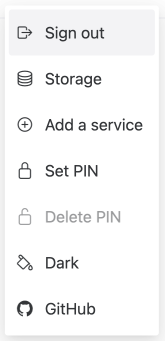
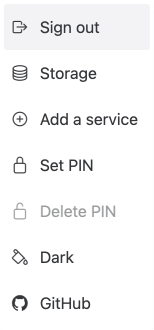
Implement Image Shadow Feature (#5)

diff --git a/pages/.vitepress/theme/index.ts b/pages/.vitepress/theme/index.ts
@@ -1,0 +1,5 @@
+import './global.scss'
+
+import defaultTheme from 'vitepress/theme-without-fonts'
+
+export default defaultTheme

diff --git a/pages/.vitepress/theme/global.scss b/pages/.vitepress/theme/global.scss
@@ -1,0 +1,3 @@
+.shadow-img {
+  box-shadow: #0000003d 0 3px 8px;
+}

diff --git a/pages/how-tos/storage.md b/pages/how-tos/storage.md
@@ -7,14 +7,14 @@
 1. Click the <b>≡</b> icon.
 1. In the drop-down menu, click <b>Storage</b>.
 
-   ![The application menu. The Storage item](../images/storage/storage-menu-item.png 'The application menu. The Storage item')
+   ![The application menu. The Storage item](../images/storage/storage-menu-item.png 'The application menu. The Storage item'){.shadow-img}
 
 1. In the <b>Storage</b> pane:
 
    1. Go to <b>Import services from file</b> block.
    1. Click <b>Select file</b>. The modal window with selecting the file will be opened.
 
-      ![The Storage pane. The Import services from file block](../images/storage/import-from-file.png 'The Storage pane. The Import services from file block')
+      ![The Storage pane. The Import services from file block](../images/storage/import-from-file.png 'The Storage pane. The Import services from file block'){.shadow-img}
 
    1. In the modal window, select the file and confirm opening.
 
@@ -26,14 +26,14 @@ The services will be imported.
 1. Click the <b>≡</b> icon.
 1. In the drop-down menu, click <b>Storage</b>.
 
-   ![The application menu. The Storage item](../images/storage/storage-menu-item.png 'The application menu. The Storage item')
+   ![The application menu. The Storage item](../images/storage/storage-menu-item.png 'The application menu. The Storage item'){.shadow-img}
 
 1. In the <b>Storage</b> pane:
 
    1. Go to <b>Export services</b> block.
    1. Click <b>Download file</b>.
 
-   ![The Storage pane. The Export services block](../images/storage/export-download.png 'The Storage pane. The Export services block')
+   ![The Storage pane. The Export services block](../images/storage/export-download.png 'The Storage pane. The Export services block'){.shadow-img}
 
 The file will be downloaded. It has:
 

diff --git a/pages/how-tos/general.md b/pages/how-tos/general.md
@@ -17,11 +17,11 @@ To run the application:
 1. [Sign in the Passcryptum](general.md#sign-in-passcryptum).
 1. In the address bar, click the PWA icon.
 
-   ![The PWA icon in the address bar](../images/pwa/install-icon.png 'The PWA icon in the address bar')
+   ![The PWA icon in the address bar](../images/pwa/install-icon.png 'The PWA icon in the address bar'){.shadow-img}
 
 1. In the <b>Install app?</b> popup, click <b>Install</b>.
 
-   ![The Install app? popup](../images/pwa/install-window.png 'The Install app? popup')
+   ![The Install app? popup](../images/pwa/install-window.png 'The Install app? popup'){.shadow-img}
 
 The application will open in a new window.
 
@@ -41,7 +41,7 @@ The application will open in a new window.
 
 ## Sign in Passcryptum
 
-![The main page. The password tab with the entered origin password](../images/general/sign-in-password.png 'The main page. The password tab with the entered origin password')
+![The main page. The password tab with the entered origin password](../images/general/sign-in-password.png 'The main page. The password tab with the entered origin password'){.shadow-img}
 
 ### Web application
 
@@ -70,4 +70,4 @@ The application will open in a new window.
 1. Click the <b>≡</b> icon.
 1. In the drop-down menu, click <b>Sign out</b>.
 
-![The application menu. The Sign out item](../images/general/sign-out-menu-item.png 'The application menu. The Sign out item')
+![The application menu. The Sign out item](../images/general/sign-out-menu-item.png 'The application menu. The Sign out item'){.shadow-img}

diff --git a/pages/how-tos/pin.md b/pages/how-tos/pin.md
@@ -12,13 +12,13 @@ If you have forgotten your PIN, set a new one. Your current PIN will be replaced
 1. Click the <b>≡</b> icon.
 1. In the drop-down menu, click <b>Set PIN</b>.
 
-   ![The application menu. The Set PIN item](../images/pin/set-menu-item.png 'The application menu. The Set PIN item')
+   ![The application menu. The Set PIN item](../images/pin/set-menu-item.png 'The application menu. The Set PIN item'){.shadow-img}
 
 1. In the <b>Setting PIN</b> window:
    1. Enter a PIN.
    1. Click <b>Continue</b>.
 
-![The Setting window](../images/pin/set-window.png 'The Setting window')
+![The Setting window](../images/pin/set-window.png 'The Setting window'){.shadow-img}
 
 ## Delete PIN
 
@@ -26,8 +26,8 @@ If you have forgotten your PIN, set a new one. Your current PIN will be replaced
 1. Click the <b>≡</b> icon.
 1. In the drop-down menu, click <b>Delete PIN</b>.
 
-   ![The application menu. The Delete PIN item](../images/pin/delete-menu-item.png 'The application menu. The Delete PIN item')
+   ![The application menu. The Delete PIN item](../images/pin/delete-menu-item.png 'The application menu. The Delete PIN item'){.shadow-img}
 
 1. In the modal window, confirm deleting.
 
-![The Your PIN will be deleted window](../images/pin/delete-window.png 'The Your PIN will be deleted window')
+![The Your PIN will be deleted window](../images/pin/delete-window.png 'The Your PIN will be deleted window'){.shadow-img}

diff --git a/pages/how-tos/services.md b/pages/how-tos/services.md
@@ -9,14 +9,14 @@
 
    If you are adding the first service, click <b>Create the first one</b>.
 
-   ![The main page, the button for adding the first service](../images/services/button-for-first.png 'The main page, the button for adding the first service')
+   ![The main page, the button for adding the first service](../images/services/button-for-first.png 'The main page, the button for adding the first service'){.shadow-img}
 
 1. In the <b>Service addition</b> window:
    1. Enter the service name.
    1. Enter the login for the service.
    1. Click <b>Continue</b>.
 
-![The Service addition window](../images/services/add-window.png 'The Service addition window')
+![The Service addition window](../images/services/add-window.png 'The Service addition window'){.shadow-img}
 
 ## Find service
 
@@ -25,8 +25,8 @@
 
    1. Enter the service name in the search bar.
 
-      ![The service search bar](../images/services/search-bar.png 'The service search bar')
+      ![The service search bar](../images/services/search-bar.png 'The service search bar'){.shadow-img}
 
    1. Select the service from the search bar drop-down list.
 
-![The service search result](../images/services/search-result.png 'The service search result')
+![The service search result](../images/services/search-result.png 'The service search result'){.shadow-img}

diff --git a/pages/how-tos/password.md b/pages/how-tos/password.md
@@ -6,4 +6,4 @@
 1. [Find the service](services.md#find-service).
 1. Click <b>Copy password</b>.
 
-![The copy button for the service password](../images/services/search-result.png 'The copy button for the service password')
+![The copy button for the service password](../images/services/search-result.png 'The copy button for the service password'){.shadow-img}
